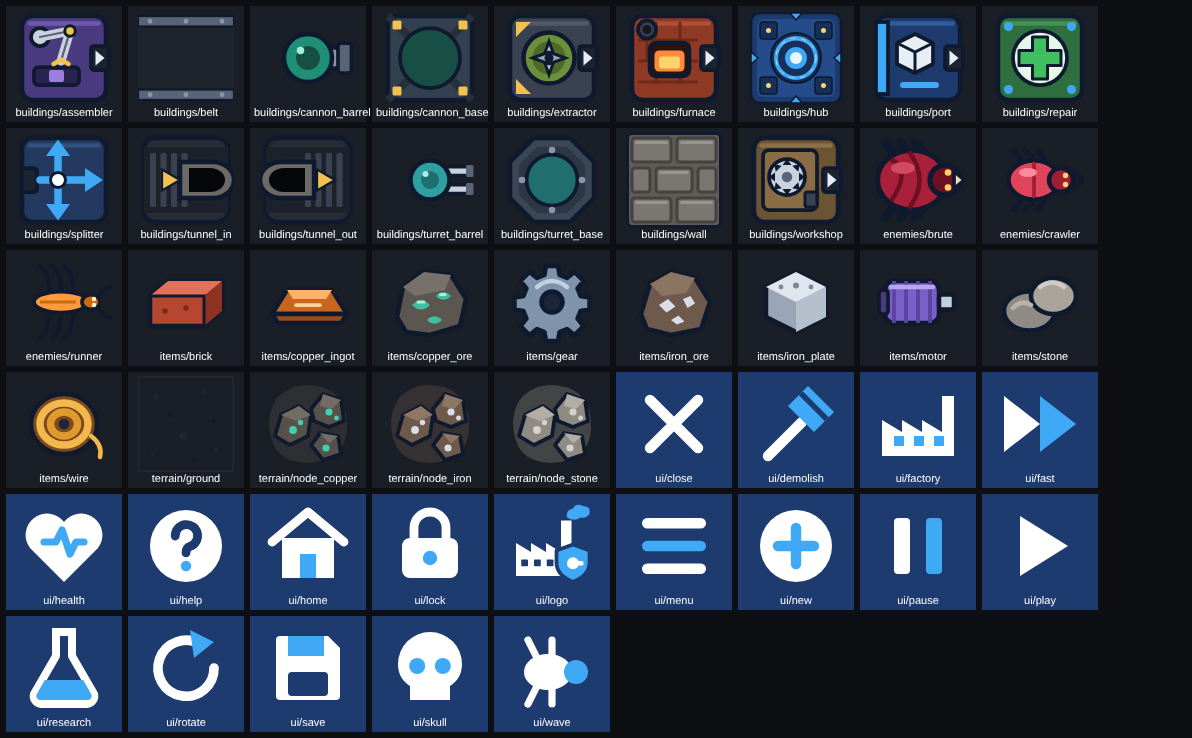
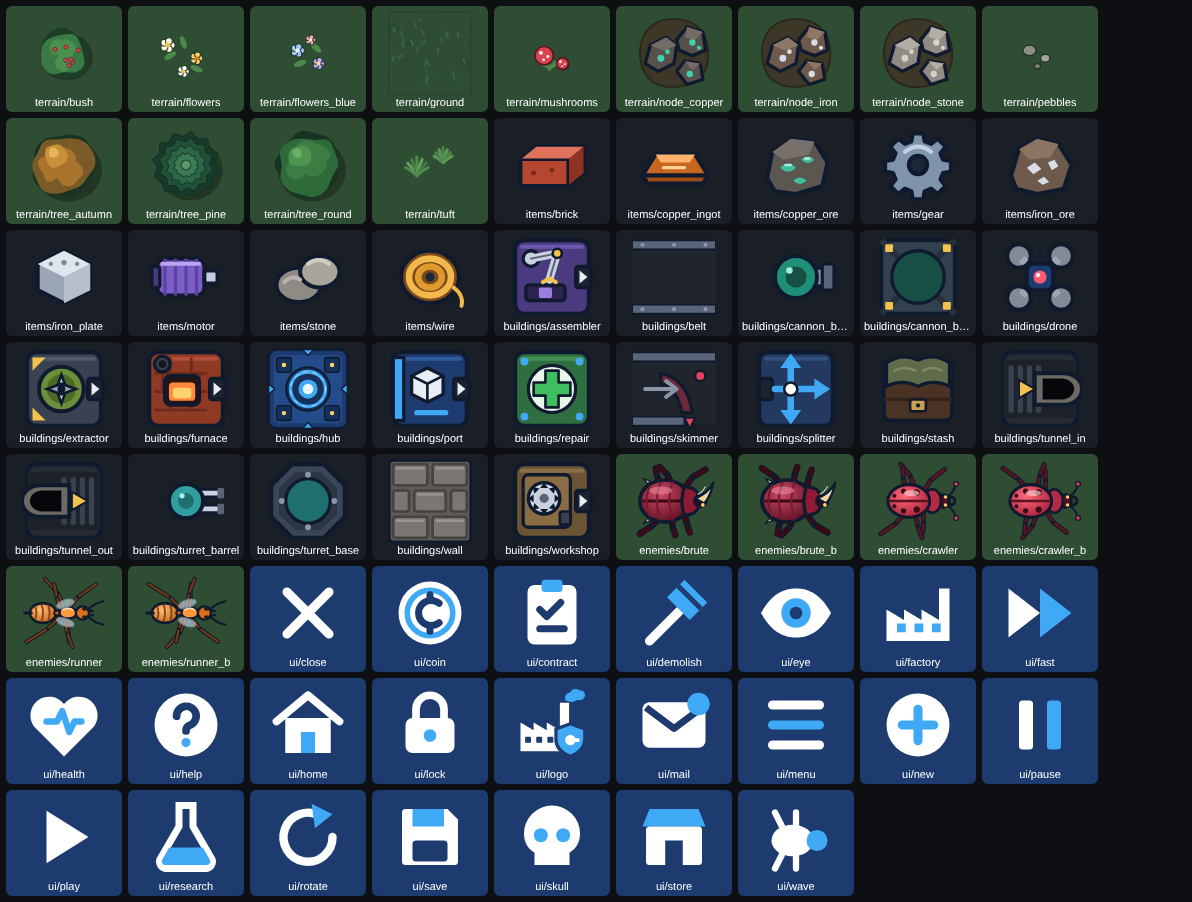
Playtest batch 2, part 4: forest look and walking bugs
- Grass ground with tufts, flowers, mushrooms and pebbles on empty
  tiles; ore nodes sit on dirt patches.
- A band of trees around the map (round, autumn, pine, berry bush);
  bugs crawl out from under them. A soft shadow marks the edge.
- Fireflies and drifting leaves, skipped for reduced motion.
- New bug art: jewel beetle, ant-wasp and rhino beetle, each with a
  second walk frame that the renderer swaps as the bug moves.
- Art list, roadmap, decisions, changelog and art overview updated.

Claude-Session: https://claude.ai/code/session_01VzjRsSwBNLhJb6nFE8KcGq

diff --git a/src/render/renderer.ts b/src/render/renderer.ts
@@ -36,6 +36,21 @@ const RESOURCE_COLORS = ['', '#5a4232', '#1f6e5c', '#6e6b64'];
 /** Enemy sprites are drawn larger than their hit radius so legs show. */
 const ENEMY_SPRITE_SCALE = 4.2;
 const ENEMY_SPRITE_MAX = 1.35; // tiles
+// The forest (D-028).
+const FOREST_FLOOR = '#1d3324';
+const FOREST_CANOPY = '#1f4a2e';
+const FIREFLIES = 70;
+const LEAVES = 9;
+const LEAF_COLORS = ['#c9923a', '#e8b65a', '#7fae4f', '#a8742e'];
+const REDUCED_MOTION = typeof matchMedia === 'function' && matchMedia('(prefers-reduced-motion: reduce)').matches;
+
+/** A cheap integer hash, for choosing decorations per tile. */
+function hash(x: number, y: number): number {
+  let h = Math.imul(x, 374761393) + Math.imul(y, 668265263);
+  h = Math.imul(h ^ (h >>> 13), 1274126177);
+  return (h ^ (h >>> 16)) >>> 0;
+}
+
 // Belt colours, matching the belt sprite.
 const BELT_SURFACE = '#20242d';
 const BELT_RAIL = '#5a6478';
@@ -59,7 +74,7 @@ export class Renderer {
   private aims = new Map<number, number>();
   private seenShots = new WeakSet<Shot>();
   /** Last known enemy positions and headings, to face sprites and place death puffs. */
-  private enemies = new Map<number, { x: number; y: number; angle: number; type: EnemyType }>();
+  private enemies = new Map<number, { x: number; y: number; angle: number; type: EnemyType; walked: number }>();
   private effects: Effect[] = [];
   private breaches = -1;
   private world: World | null = null;
@@ -117,17 +132,19 @@ export class Renderer {
 
     this.trackEffects(world, now);
 
-    // Ground and resources.
+    // Ground, decorations and resources. Beyond the map's edge is forest.
+    ctx.fillStyle = FOREST_FLOOR;
+    ctx.fillRect(Math.floor(x0f) - 1, Math.floor(y0f) - 1, Math.ceil(x1f - x0f) + 3, Math.ceil(y1f - y0f) + 3);
     this.drawGround(s.width, s.height);
+    const decorate = z >= 14;
     for (let y = y0; y <= y1; y++) {
       for (let x = x0; x <= x1; x++) {
         const r = s.resources[world.idx(x, y)];
         if (r) this.drawNode(r, x, y);
+        else if (decorate && !world.tiles[world.idx(x, y)]) this.drawDecoration(x, y);
       }
     }
-    ctx.strokeStyle = '#3a4a68';
-    ctx.lineWidth = 2 / z;
-    ctx.strokeRect(0, 0, s.width, s.height);
+    this.drawMapEdge(s.width, s.height);
 
     // Paired tunnels: a faint dotted line where the belt runs underground.
     for (const b of s.buildings) {
@@ -155,19 +172,24 @@ export class Renderer {
     for (const e of s.enemies) {
       if (!visible(e.x - 1, e.y - 1, 2)) continue;
       const def = ENEMIES[e.type];
-      const angle = this.enemies.get(e.id)?.angle ?? 0;
-      // A small bob so they look alive.
-      const bob = 1 + 0.06 * Math.sin(now / 90 + e.id);
+      const track = this.enemies.get(e.id);
+      const angle = track?.angle ?? 0;
+      // Walk cycle: the legs swap every short stride, so bugs only scuttle while moving.
+      const stride = def.radius * 0.7;
+      const frame = Math.floor((track?.walked ?? 0) / stride + e.id) % 2 && sprite(`enemies/${e.type}_b`) ? '_b' : '';
+      const bob = 1 + 0.03 * Math.sin(now / 90 + e.id);
       const size = Math.min(ENEMY_SPRITE_MAX, def.radius * ENEMY_SPRITE_SCALE) * bob;
-      if (!this.drawSprite(`enemies/${e.type}`, e.x - size / 2, e.y - size / 2, size, angle)) {
+      if (!this.drawSprite(`enemies/${e.type}${frame}`, e.x - size / 2, e.y - size / 2, size, angle)) {
         ctx.fillStyle = def.color;
         dot(ctx, e.x, e.y, def.radius);
       }
       if (e.hp < e.maxHp) bar(ctx, e.x - 0.3, e.y - def.radius - 0.22, 0.6, e.hp / e.maxHp, '#e0445a');
     }
 
+    this.drawForest(s.width, s.height, x0f, y0f, x1f, y1f, z);
     this.drawShots(world, now, z);
     this.drawEffects(now, z);
+    this.drawAmbient(s.width, s.height, x0f, y0f, x1f, y1f, now, z);
     this.drawAudit(world, now, z, ui);
 
     if (!ui) return;
@@ -231,8 +253,109 @@ export class Renderer {
       this.groundPattern = ctx.createPattern(img, 'repeat');
       this.groundPattern?.setTransform(new DOMMatrix().scale(1 / img.width));
     }
-    ctx.fillStyle = this.groundPattern ?? '#1a1d23';
+    ctx.fillStyle = this.groundPattern ?? '#2e4d33';
     ctx.fillRect(0, 0, w, h);
+  }
+
+  /** Grass tufts, flowers, mushrooms and pebbles on some empty tiles, the same every time. */
+  private drawDecoration(x: number, y: number): void {
+    const h = hash(x, y);
+    const pick = h % 100;
+    const key = pick < 14 ? 'terrain/tuft' : pick < 18 ? 'terrain/flowers' : pick < 21 ? 'terrain/flowers_blue' : pick < 23 ? 'terrain/pebbles' : pick < 24 ? 'terrain/mushrooms' : '';
+    if (!key) return;
+    const jx = ((h >>> 8) % 40) / 100 - 0.2;
+    const jy = ((h >>> 16) % 40) / 100 - 0.2;
+    this.drawSprite(key, x + jx, y + jy, 1, (((h >>> 24) % 4) * Math.PI) / 2);
+  }
+
+  /** A soft shadow where the clearing meets the forest. */
+  private drawMapEdge(w: number, h: number): void {
+    const ctx = this.ctx;
+    const d = 1.2;
+    // Each side: a gradient from the edge (dark) inwards (clear).
+    const sides: [number, number, number, number, number, number, number, number][] = [
+      [0, 0, w, d, 0, 0, 0, d],
+      [0, h - d, w, d, 0, h, 0, h - d],
+      [0, 0, d, h, 0, 0, d, 0],
+      [w - d, 0, d, h, w, 0, w - d, 0],
+    ];
+    for (const [x, y, sw, sh, gx0, gy0, gx1, gy1] of sides) {
+      const g = ctx.createLinearGradient(gx0, gy0, gx1, gy1);
+      g.addColorStop(0, 'rgba(10,24,14,0.55)');
+      g.addColorStop(1, 'rgba(10,24,14,0)');
+      ctx.fillStyle = g;
+      ctx.fillRect(x, y, sw, sh);
+    }
+  }
+
+  /** Trees in a band around the map. Bugs come out from under them. */
+  private drawForest(w: number, h: number, x0f: number, y0f: number, x1f: number, y1f: number, z: number): void {
+    const BAND = 6;
+    const xa = Math.max(-BAND, Math.floor(x0f) - 2);
+    const ya = Math.max(-BAND, Math.floor(y0f) - 2);
+    const xb = Math.min(w + BAND, Math.ceil(x1f) + 2);
+    const yb = Math.min(h + BAND, Math.ceil(y1f) + 2);
+    const ctx = this.ctx;
+    if (z < 12) {
+      // Zoomed far out: a plain canopy colour is enough.
+      ctx.fillStyle = FOREST_CANOPY;
+      ctx.fillRect(-BAND, -BAND, w + 2 * BAND, BAND);
+      ctx.fillRect(-BAND, h, w + 2 * BAND, BAND);
+      ctx.fillRect(-BAND, 0, BAND, h);
+      ctx.fillRect(w, 0, BAND, h);
+      return;
+    }
+    for (let y = ya; y < yb; y++) {
+      for (let x = xa; x < xb; x++) {
+        if (x >= 0 && y >= 0 && x < w && y < h) continue;
+        const hv = hash(x + 1000, y + 1000);
+        const kind = hv % 10;
+        const key = kind < 4 ? 'terrain/tree_round' : kind < 7 ? 'terrain/tree_pine' : kind < 9 ? 'terrain/bush' : 'terrain/tree_autumn';
+        const size = (key === 'terrain/bush' ? 1.2 : 1.7) + ((hv >>> 8) % 40) / 100;
+        const jx = ((hv >>> 12) % 50) / 100 - 0.25;
+        const jy = ((hv >>> 20) % 50) / 100 - 0.25;
+        this.drawSprite(key, x + 0.5 + jx - size / 2, y + 0.5 + jy - size / 2, size, (((hv >>> 4) % 8) * Math.PI) / 4);
+      }
+    }
+  }
+
+  /** Fireflies drifting over the map and a few leaves blowing across the view. */
+  private drawAmbient(w: number, h: number, x0f: number, y0f: number, x1f: number, y1f: number, now: number, z: number): void {
+    if (REDUCED_MOTION) return;
+    const ctx = this.ctx;
+    const t = now / 1000;
+    ctx.save();
+    ctx.globalCompositeOperation = 'lighter';
+    for (let i = 0; i < FIREFLIES; i++) {
+      const hv = hash(i, 77);
+      const fx = ((hv % 10007) / 10007) * w + Math.sin(t * 0.3 + i) * 1.5 + Math.sin(t * 0.71 + i * 2.3) * 0.6;
+      const fy = (((hv >>> 13) % 10007) / 10007) * h + Math.cos(t * 0.27 + i * 1.7) * 1.5;
+      if (fx < x0f - 1 || fx > x1f + 1 || fy < y0f - 1 || fy > y1f + 1) continue;
+      const glow = Math.max(0, Math.sin(t * 1.3 + i * 0.9));
+      if (glow < 0.05) continue;
+      ctx.fillStyle = `rgba(214,255,120,${0.12 * glow})`;
+      dot(ctx, fx, fy, 0.18);
+      ctx.fillStyle = `rgba(240,255,170,${0.85 * glow})`;
+      dot(ctx, fx, fy, Math.max(0.035, 1.6 / z));
+    }
+    ctx.restore();
+    // Leaves wrap around the visible area as they blow across it.
+    const vw = x1f - x0f + 2;
+    const vh = y1f - y0f + 2;
+    for (let i = 0; i < LEAVES; i++) {
+      const hv = hash(i, 131);
+      const lx = x0f - 1 + ((((hv % 997) / 997) * vw + t * (0.5 + (i % 3) * 0.15)) % vw);
+      const ly = y0f - 1 + (((((hv >>> 10) % 997) / 997) * vh + t * 0.35 + Math.sin(t + i) * 0.4) % vh);
+      ctx.save();
+      ctx.translate(lx, ly);
+      ctx.rotate(t * (1 + (i % 4) * 0.3) + i);
+      ctx.scale(1, 0.55 + 0.45 * Math.sin(t * 2 + i)); // tumbling
+      ctx.fillStyle = LEAF_COLORS[i % LEAF_COLORS.length];
+      ctx.beginPath();
+      ctx.ellipse(0, 0, 0.13, 0.06, 0, 0, Math.PI * 2);
+      ctx.fill();
+      ctx.restore();
+    }
   }
 
   private drawNode(kind: number, x: number, y: number): void {
@@ -626,12 +749,14 @@ export class Renderer {
       alive.add(e.id);
       const prev = this.enemies.get(e.id);
       let angle = prev?.angle ?? 0;
+      let walked = prev?.walked ?? 0;
       if (prev) {
         const dx = e.x - prev.x;
         const dy = e.y - prev.y;
         if (dx * dx + dy * dy > 1e-6) angle = Math.atan2(dy, dx);
+        walked += Math.hypot(dx, dy);
       }
-      this.enemies.set(e.id, { x: e.x, y: e.y, angle, type: e.type });
+      this.enemies.set(e.id, { x: e.x, y: e.y, angle, type: e.type, walked });
     }
     const breached = s.breaches !== this.breaches;
     for (const [id, e] of this.enemies) {

diff --git a/src/art/index.ts b/src/art/index.ts
@@ -14,7 +14,13 @@ for (const [path, url] of Object.entries(files)) {
 
 /** Pixels per tile that sprites are pre-rendered at. */
 const PX_PER_TILE = 128;
-const TILES: Record<string, number> = { 'buildings/hub': 3 };
+const TILES: Record<string, number> = {
+  'buildings/hub': 3,
+  'terrain/tree_round': 2,
+  'terrain/tree_autumn': 2,
+  'terrain/tree_pine': 2,
+  'terrain/bush': 2,
+};
 const cache = new Map<string, HTMLCanvasElement>();
 
 /** URL for use in HTML (toolbar, menus). */

diff --git a/docs/ART_LIST.md b/docs/ART_LIST.md
@@ -26,7 +26,8 @@ They show the intended size, facing and silhouette.
 | **Grid** | 1 tile = **64×64 px** at 1×. Please also export **128×128 (@2x)** for phones |
 | **Format** | PNG with transparency. Keep layered source files (PSD, Aseprite, Krita…) |
 | **Facing** | Directional sprites face **east (right)**; the game rotates them. If the lighting looks wrong rotated, provide all four directions as `_e`, `_s`, `_w`, `_n` |
-| **Animation** | A horizontal strip of equal-size frames, with the frame count in the name, e.g. `belt_8f.png`. The loader doesn't read strips yet, so a single frame is the most useful first delivery. The game animates belts, glows and bobbing in code for now |
+| **Animation** | A horizontal strip of equal-size frames, with the frame count in the name, e.g. `belt_8f.png`. The loader doesn't read strips yet, so a single frame is the most useful first delivery. The game animates belts, glows and bobbing in code for now. **Exception, enemy walk cycles:** two separate files, `crawler.png` and `crawler_b.png`; the game swaps them as the bug walks |
+| **Art direction** | A whimsical forest clearing (D-028): grassy ground, flowers and mushrooms, trees around the edge, fireflies and drifting leaves. The Company's machines stay navy, steel and hazard-yellow, so they stand out from the greenery |
 | **Padding** | Building art should leave about 4 px clear at each tile edge, so neighbours read as separate |
 | **Naming** | Match the placeholder: `src/art/category/name.png`, e.g. `src/art/items/iron_plate.png` |
 | **Palette** | Item colours must stay distinct for colour-blind players. Give each item a distinct **shape** as well |
@@ -38,11 +39,14 @@ Priority: **P1** = needed to replace the placeholders in the core loop,
 
 | Asset | Size | Frames | Priority | Status |
 |---|---|---|---|---|
-| Ground tile (3–4 variants so it doesn't look tiled) | 64×64 | 1 | P1 | Placeholder |
-| Map edge or boundary | 64×64 | 1 | P3 | Code |
-| Iron ore node (2–3 variants) | 64×64 | 1 | P1 | Placeholder |
+| Ground tile: grass, seamless, with a faint tile edge (3–4 variants so it doesn't look tiled) | 64×64 | 1 | P1 | Placeholder (`terrain/ground`) |
+| Map edge: soft shadow where the clearing meets the forest | — | 1 | P3 | Code |
+| Iron ore node (2–3 variants), on a dirt patch with a transparent background | 64×64 | 1 | P1 | Placeholder |
 | Copper ore node (2–3 variants) | 64×64 | 1 | P1 | Placeholder |
 | Stone node (2–3 variants) | 64×64 | 1 | P1 | Placeholder |
+| Decorations, transparent: grass tuft, flowers (2 colourways), mushrooms, pebbles. Scattered on empty tiles | 64×64 | 1 | P2 | Placeholder (`terrain/tuft`, `flowers`, `flowers_blue`, `mushrooms`, `pebbles`) |
+| Trees, top-down canopies with a soft shadow: round, autumn, pine, berry bush. They fill a band around the map | 128×128 (2 tiles) | 1 | P2 | Placeholder (`terrain/tree_round`, `tree_autumn`, `tree_pine`, `bush`) |
+| Fireflies and drifting leaves | — | — | P3 | Code |
 
 ## Items
 
@@ -88,13 +92,14 @@ Drawn small on belts (about 20 px on screen) and larger in menus, so they need s
 
 ## Enemies
 
-All top-down and facing east, as walk cycles.
+All top-down and facing east. Each has two walk frames (`name` and `name_b`, legs in opposite
+tripod poses); the game swaps them as the bug moves, so a bug standing still to attack stops walking.
 
 | Asset | Size on screen | Frames | Priority | Status |
 |---|---|---|---|---|
-| Crawler | ~28 px (fits a 32×32 frame) | 4 walk + 4 attack | P1 | Placeholder |
-| Runner | ~22 px (32×32) | 4 walk + 4 attack | P2 | Placeholder |
-| Brute | ~46 px (64×64) | 4 walk + 4 attack | P2 | Placeholder |
+| Crawler: red jewel beetle | ~28 px (fits a 32×32 frame) | 2 walk (+4 attack later) | P1 | Placeholder (`crawler`, `crawler_b`) |
+| Runner: slender orange ant-wasp, long legs | ~22 px (32×32) | 2 walk (+4 attack later) | P2 | Placeholder (`runner`, `runner_b`) |
+| Brute: armoured rhino beetle with a horn | ~46 px (64×64) | 2 walk (+4 attack later) | P2 | Placeholder (`brute`, `brute_b`) |
 | Death puff or splat (shared) | 64×64 | 4–6 | P2 | Code |
 
 ## Effects

diff --git a/docs/DECISIONS.md b/docs/DECISIONS.md
@@ -33,7 +33,7 @@ one; don't edit the old entry.
 | D-025 | 2026-10-20 | **Tutorial as lessons** (supersedes D-009): short lessons triggered by game events, with action steps that wait for the player. The game runs during action steps and pauses during explanations. Seen lessons are stored in the browser profile; players can replay them or switch them off | Owner's playtest notes: split by priority, make it interactive, trigger it by events | Accepted (built) |
 | D-026 | 2026-10-20 | **How research takes time** (implements D-018): the active research draws its items from **hub stock** at a steady rate over its research time, stalls when stock runs out, and keeps its progress when you switch. No separate lab building | Simplest reading of D-018. It competes with contracts and building for stock. Alternative if wanted: a Research Lab building that you belt items into | Accepted (built). Owner may prefer the lab alternative |
 | D-027 | 2026-10-20 | **Black market (story phase 2):** A Friend makes contact after the first contract. Stash and skimmer are contraband. Suspicion builds from misses, skimming, port withdrawals and contraband within 14 tiles of the hub. Audits at 60%/100% fine (Standard) or confiscate (Hardcore) contraband in range. The hidden workshop moves to phase 4 | Gives hiding a spatial puzzle (keep contraband out of the ring) and ties suspicion to the contract loop | Accepted (built). Numbers to tune in playtesting |
-| D-028 | 2026-10-21 | **Art direction: whimsical forest.** Grass, flowers and trees around the map edges, fireflies and drifting leaves; the bugs become more detailed and animated | Play-tester's notes; owner likes it. It also contrasts nicely with the Company's grey industry | Accepted (not built yet) |
+| D-028 | 2026-10-21 | **Art direction: whimsical forest.** Grass, flowers and trees around the map edges, fireflies and drifting leaves; the bugs become more detailed and animated | Play-tester's notes; owner likes it. It also contrasts nicely with the Company's grey industry | Accepted (built with placeholder art) |
 | D-029 | 2026-10-21 | **Spread-out resource nodes**, for new games only. Node tiles never touch side by side, and patches keep a gap between them. Saves keep their maps | Play-tester's notes: every node should be reachable. Saves already store the map, so no migration is needed | Accepted (built) |
 | D-030 | 2026-10-21 | **Soft placement:** a blueprint preview you confirm (✓), rotate (⟳) or cancel (✕). On by default on touch. On desktop, only for belt and wall lines that you drag out; single clicks still place at once. Touch players can switch it off in the menu | Play-tester's notes, scoped by the owner so desktop stays fast | Accepted (built) |
 | D-031 | 2026-10-21 | **Wave timing:** first wave at 4:00 (was 3:00), then every 2:00 (was 75 s) | Play-tester's notes: more prep time before getting overwhelmed | Accepted (built). Tune in playtesting |

diff --git a/CHANGELOG.md b/CHANGELOG.md
@@ -5,6 +5,8 @@
 - New games spread resource nodes out: node tiles never touch side by side, and patches are kept apart, so every node can be reached. Existing saves keep their maps.
 - Soft placement: building can show a blueprint first, with ✓ (build), ⟳ (rotate, or reverse a belt line) and ✕ (cancel). Every placement on a touch screen is a blueprint; tap the same spot twice to build quickly, or switch it off in the menu. On desktop, single clicks still build at once, and dragging out a belt or wall line makes a blueprint (Enter builds, Esc or right-click cancels). Dragging back shortens a blueprint, and red tiles show where it's blocked or where your stock runs out.
 - Belts look more like belts: they curve round corners (items follow the bend), chevrons show the direction, a line's end gets a hazard bumper, and metal flanges show where belts plug into splitters, tunnels and machines. Paired underground belts show a faint dotted trace.
+- A whimsical forest look: grassy ground with tufts, flowers, mushrooms and pebbles; a band of trees around the map that the bugs crawl out from; fireflies and drifting leaves (switched off when the system asks for reduced motion). Ore nodes sit on dirt patches.
+- More detailed bugs: a red jewel beetle (crawler), a long-legged ant-wasp (runner) and a horned rhino beetle (brute), each with a two-frame walk cycle that plays as they move.
 - Hub stock is now shown just above the hub instead of along the top of the screen. When the hub is off screen, the stock is pinned to the edge; tap it to jump back.
 
 ## Unreleased: fixes

diff --git a/docs/ROADMAP.md b/docs/ROADMAP.md
@@ -27,11 +27,11 @@ quality and business work don't get left until the end.
 3. ✅ Interactive tutorial (M3c).
 4. ✅ Research over time (D-018, D-026).
 5. ✅ Story phase 2: suspicion, audits and the black market.
-6. 🚧 **Playtest batch 2** (a play-tester's notes, 2026-10-21), in this order:
+6. ✅ **Playtest batch 2** (a play-tester's notes, 2026-10-21), in this order:
    1. ✅ More time between attacks (first wave 4:00, then every 2:00). ✅ Spread-out resource nodes (new games only, D-029). ✅ Hub stock shown over the hub instead of along the top.
    2. ✅ Soft placement: a blueprint preview with confirm (✓), rotate (⟳) and cancel (✕). On by default on touch; on desktop only when dragging out a belt or wall line (D-030).
    3. ✅ Belt visuals: corners and elbows, proper joins with splitters and tunnels, more detail.
-   4. ⬜ Forest look (D-028): grass, flowers and trees around the map, fireflies and drifting leaves. More detailed bugs with walk animations.
+   4. ✅ Forest look (D-028): grass, flowers and trees around the map, fireflies and drifting leaves. More detailed bugs with walk animations.
 7. **Then:** story phase 3 (food factories) or phase 4 (escape ship and win condition). Owner's choice; see Q-14. Wood as a resource (Q-15) could join the forest work.
 
 ---
